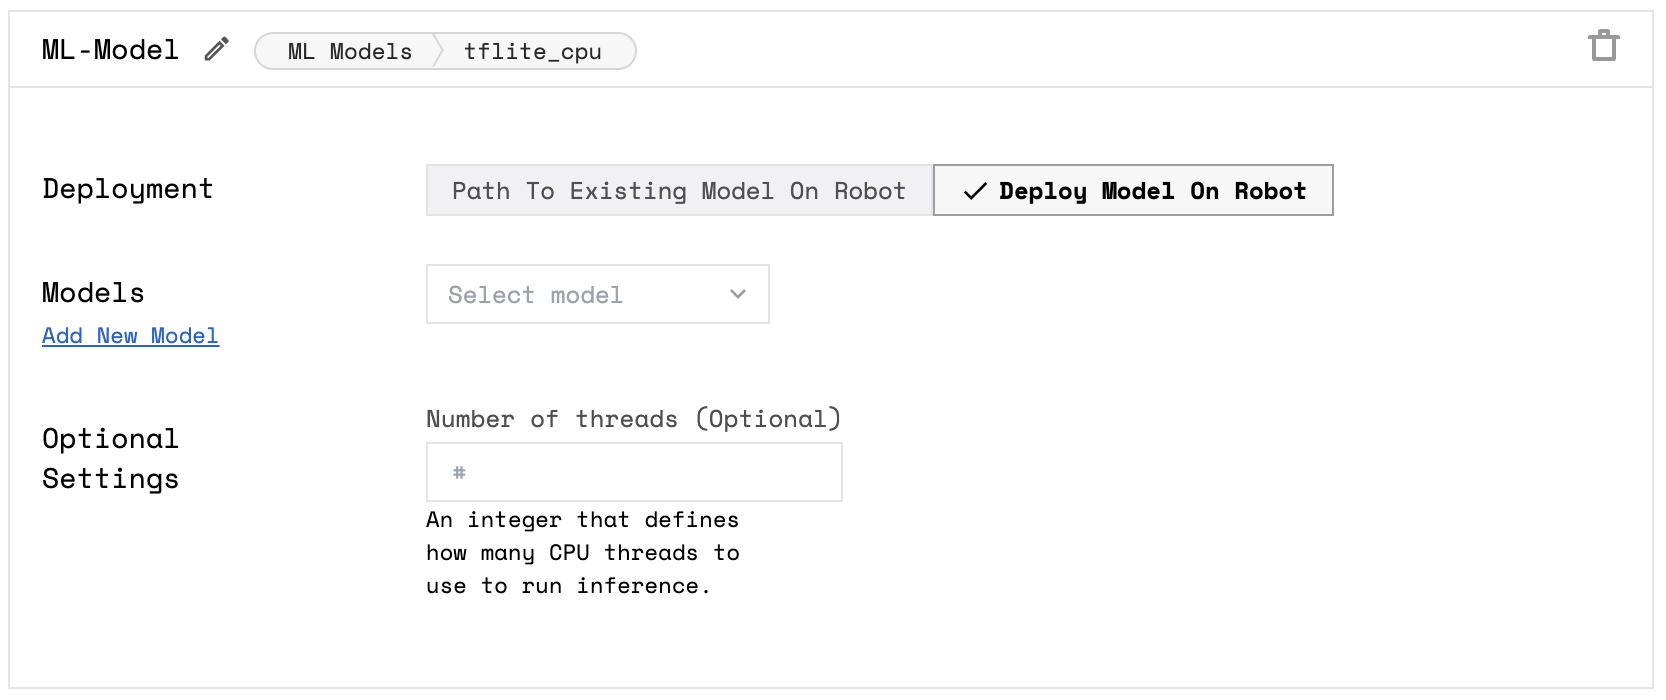
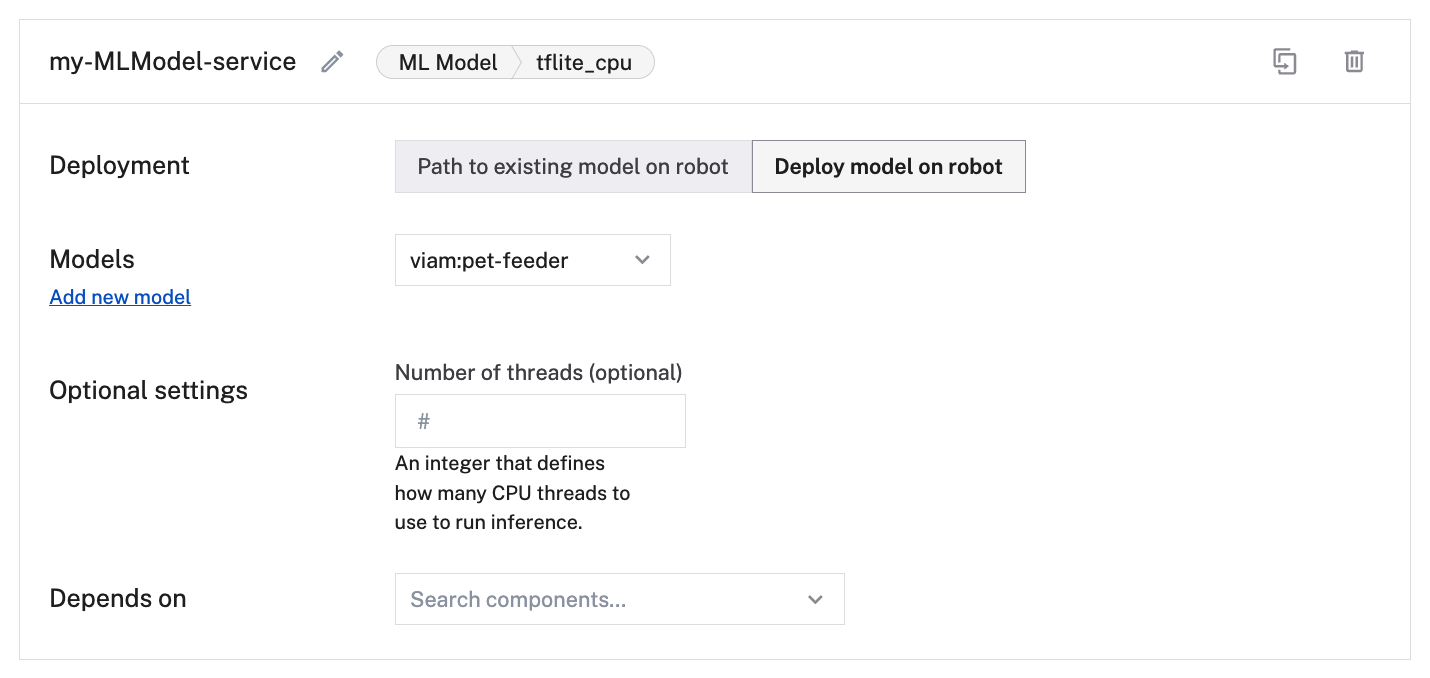
Add models to registry flow

diff --git a/docs/ml/upload-model.md b/docs/ml/upload-model.md
@@ -8,46 +8,81 @@ aliases:
   - /manage/data/upload-model/
   - /manage/ml/upload-model/
 description: "Upload a Machine Learning model to Viam to use it with the ML Model service."
-# SME: Aaron Casas
+# SME: Steven B.
 ---
 
-On the [**DATA** tab](https://app.viam.com/data/view) in the Viam app, navigate to the **Models** subtab.
+## Upload an existing model to the registry
 
-![Add new model](/ml/add-new-model.png)
+Trained ML models are available in the [Viam registry](https://app.viam.com/registry) for public access.
+To add a model that you've trained to the [Viam registry](https://app.viam.com/registry) so that other users can deploy it onto their robots:
 
-To add a new model:
+1. On the [**DATA** tab](https://app.viam.com/data/view) in the Viam app, navigate to the **MODELS** subtab. 
+A list of all of your ML models is displayed.
+2. Open the menu on the right side of an ML model's row.
 
-1. Specify a **Name** for the model.
-2. Add a `.tflite` model file.
-3. Add a `.txt` label file.
-4. Click **CREATE MODEL**.
+{{<imgproc src="/ml/model-list.png" resize="1000x" alt="List of models displayed on MODELS subtab of DATA tab.">}}
 
-The model is now added and becomes visible in the **Models** section of the page.
+3. Then, click **Make public in Registry**.
 
-![The trained model](/ml/stars-model.png)
+{{<imgproc src="/ml/publish-model.png" resize="600x" alt="Publish model to registry action card.">}}
 
-### Upload a new version of a model
+4. Add a short description.
+This will help other users to understand how to use your model.
+5. Then, click **Publish model**.
+Your model should be publicly visible in the [Viam registry](https://app.viam.com/registry).
 
-If you [deploy a model](/ml/) to a machine, Viam automatically assumes that this is the `latest` version of the model and that you would always like to deploy the `latest` version of the model to the machine.
-If you upload a new version of that model, Viam will automatically deploy the new version to the machine and replace the old version.
+## Upload a new model or new version
 
-If you do not want Viam to automatically deploy the `latest` version of the model, you can change the `packages` configuration in the [Raw JSON machine configuration](/build/configure/#the-config-tab).
+On the [**DATA** tab](https://app.viam.com/data/view) in the Viam app, navigate to the **MODELS** subtab.
+Click **Upload model**.
 
-You can get the version number from a specific model version by clicking on **COPY** on the model on the model page.
-The model package config looks like this:
+{{<imgproc src="/ml/add-new-model.png" resize="400x" alt="Upload model menu on the DATA tab of the Viam app.">}}
 
-```json
-{
-  "package": "<model_id>/allblack",
-  "version": "YYYYMMDDHHMMSS",
-  "name": "<model_name>"
-}
-```
+Select if you want to upload a **New model** or a **New version** of a previously published model.
 
-## Next Steps
+{{< tabs >}}
+{{% tab name="New model" %}}
+
+Select **Public** to upload the model publicly to the [Viam registry](https://app.viam.com/registry).
+This makes the model usable by any external organization.
+See [ML models in the registry](/registry/#ml-models) for more information.
+
+Select **Private** to only publish the model for internal use within this {{< glossary_tooltip term_id="organization" text="organization" >}}.
+Select **Next steps** to continue.
+
+{{<imgproc src="/ml/upload-model.png" resize="600x" alt="Upload model menu on the DATA tab of the Viam app.">}}
+
+1. Specify a name for the model.
+2. Specify the **Model type**.
+3. Add a `.tflite` model file.
+4. Add a `.txt` label file.
+5. Add a short description.
+This will help other users to understand how to use your model.
+
+Select **Upload model**.
+The model should now be visible on the **MODELS** subtab of the **DATA** tab in the [Viam app](https://app.viam.com) and available to [deploy on your machine](/ml/deploy/).
+Also, if you selected **Public**, it should be publicly visible in the [Viam registry](https://app.viam.com/registry).
+
+{{% /tab %}}
+{{% tab name="New version" %}}
+
+{{<imgproc src="/ml/select-existing-model.png" resize="400x" alt="Select from your existing models.">}}
+
+1. Select the model you would like to update from your existing models.
+2. Select **Next steps** to continue.
+3. Add an updated `.tflite` model file.
+4. Add an updated `.txt` label file.
+5. Click **Upload model**.
+
+Your model is now replaced with the updated version.
+
+{{% /tab %}}
+{{< /tabs >}}
+
+## Next steps
 
 {{< cards >}}
-{{% manualcard link="/ml/" %}}
+{{% manualcard link="/ml/deploy/" %}}
 
 <h4>Deploy your model</h4>
 

diff --git a/docs/registry/_index.md b/docs/registry/_index.md
@@ -1,5 +1,5 @@
 ---
-title: "Extend Viam with Modules from the Viam Registry"
+title: "Extend Viam with Models from the Viam Registry"
 linkTitle: "Registry"
 weight: 420
 type: "docs"
@@ -12,7 +12,7 @@ tags:
     "components",
     "services",
   ]
-description: "Support additional hardware components or services by adding them from the Viam Registry or by creating new modular resources."
+description: "Add additional models of components and services or ML Models from the Viam Registry, or extend Viam by creating new modular resources."
 image: "/services/icons/modular-registry.svg"
 imageAlt: "Integrate other capabilities."
 no_list: true
@@ -27,18 +27,33 @@ aliases:
 menuindent: true
 ---
 
+The [Viam registry](https://app.viam.com/registry) is the central place where you can browse [ML models](/ml) to deploy with machine applications like [computer vision](/ml/vision/), or {{< glossary_tooltip term_id="modular-resource" text="modular resources" >}} that add capabilities to your machine beyond what is built-in to `viam-server`.
+
+### ML models
+
+Viam provides the ability to train, upload, and deploy ML models within the platform.
+See [Machine Learning](/ml/) for more information.
+
+You can use these ML models to make detections or classifications on-machine with an [`mlmodel` vision service](/ml/vision/mlmodel/).
+
+The Viam registry hosts pretrained ML models that users have made public, so that you can save time spent training complicated models and quickly deploy functional classifiers or detectors for your use case onto your robot.
+You can also upload your own model to the registry.
+
+- You can deploy a model to your robot through an [MLModel service like `tflite_cpu`](/ml/deploy/).
+Select **Builder** and **Deploy Model** tabs and follow [these instructions](/ml/deploy/#create-an-ml-model-service) to deploy the model to your robot.
+- To add an ML model to the registry, [upload the model publicly](/ml/upload-model/).
+
+### Modular resources
+
 Viam provides built-in support for a variety of {{< glossary_tooltip term_id="resource" text="resources" >}}:
 
 - Various types of hardware {{< glossary_tooltip term_id="component" text="components" >}}.
 - High-level functionality exposed as {{< glossary_tooltip term_id="service" text="services" >}}.
 
-If the component or service you want to use for your project is not natively supported, you can use _{{< glossary_tooltip term_id="modular-resource" text="modular resources" >}}_ from [the Viam Registry](#the-viam-registry) or [create your own](#create-your-own-modules).
+If the model of component or service you want to use for your project is not built-in to `viam-server` and available for configuration by default, you can use a {{< glossary_tooltip term_id="model" text="model" >}} from a {{< glossary_tooltip term_id="module" text="module" >}}.
 
-## The Viam Registry
+To configure a modular resource on your robot, [add new models that others have created](/registry/configure/#add-a-modular-resource-from-the-viam-registry) from the [Viam registry](https://app.viam.com/registry) or [create your own](#create-your-own-modules).
 
-The [Viam registry](https://app.viam.com/registry) is the central place where you can browse {{< glossary_tooltip term_id="module" text="modules" >}} that add capabilities to your machine beyond what is built-in to `viam-server`.
-
-A module provides one or more {{< glossary_tooltip term_id="modular-resource" text="modular resources" >}}.
 You can search the available modular resources from the Viam Registry here:
 
 <div id="searchbox"></div>
@@ -57,6 +72,9 @@ You can search the available modular resources from the Viam Registry here:
 
 You can see details about each module in the [Viam registry](https://app.viam.com/registry) on its dedicated module page.
 You can integrate modules into any Viam-powered machine.
+
+Be aware that unlike natively supported models, modular resources are not documented on the Viam Documentation.
+Documentation for each modular resource is available on its GitHub page, which is linked from the models' page on [the registry](https://app.viam.com/registry).
 
 ## Use modules
 

diff --git a/docs/ml/deploy.md b/docs/ml/deploy.md
@@ -61,22 +61,30 @@ Enter a name for your service and click **Create**.
 You can choose to configure your service with an existing model on the machine or deploy a model onto your machine:
 
 {{< tabs >}}
-{{% tab name="Existing Model" %}}
-
-To configure your service with an existing model on the machine, select **Path to Existing Model On Robot** for the **Deployment** field.
-
-Then specify the absolute **Model Path** and any **Optional Settings** such as the absolute **Label Path** and the **Number of threads**.
-
-![Create a machine learning models service with an existing model](/services/available-models.png)
-
-{{% /tab %}}
 {{% tab name="Deploy Model" %}}
 
-To configure your service and deploy a model onto your machine, select **Deploy Model On Robot** for the **Deployment** field.
+1. To configure your service and deploy a model onto your machine, select **Deploy Model On Robot** for the **Deployment** field.
 
-Then select the **Models** and any **Optional Settings** such as the **Number of threads**.
+2. Click on **Models** to open a drop-down with all of the ML models available to you privately, as well as all of the ML models available in [the registry](https://app.viam.com), which are shared by users.
+You can select from any of these models to deploy on your robot.
 
-![Create a machine learning models service with a model to be deployed](/services/deploy-model.png)
+{{<imgproc src="/services/deploy-model-menu.png" resize="700x" alt="Models drop-down menu with models from the registry.">}}
+
+{{% alert title="Tip" color="tip" %}}
+To see more details about a model, open its page in [the registry](https://app.viam.com).
+{{% /alert %}}
+
+{{<imgproc src="/services/deploy-model.png" resize="700x" alt="Create a machine learning models service with a model to be deployed">}}
+
+3. Also, optionally select the **Number of threads**.
+
+{{% /tab %}}
+{{% tab name="Existing Model" %}}
+
+1. To configure your service with an existing model on the machine, select **Path to Existing Model On Robot** for the **Deployment** field.
+2. Then specify the absolute **Model Path** and any **Optional Settings** such as the absolute **Label Path** and the **Number of threads**.
+
+![Create a machine learning models service with an existing model](/services/available-models.png)
 
 {{% /tab %}}
 {{< /tabs >}}

diff --git a/docs/ml/edit.md b/docs/ml/edit.md
@@ -1,0 +1,25 @@
+---
+title: "Edit an ML Model in the Registry"
+linkTitle: "Edit Model"
+weight: 60
+type: "docs"
+tags: ["data management", "ml", "model training", "registry"]
+description: "Edit a machine learning model previously published to the registry."
+modulescript: true
+icon: "/services/icons/ml.svg"
+# SME: Steven B. 
+---
+
+To edit a model you've previously published to [the registry](https://app.viam.com/registry), navigate to its page by clicking on its name.
+The details of the model will be displayed like the following:
+
+{{<imgproc src="/ml/model-details.png" resize="800x" alt="ML model details card.">}}
+
+Click on the ***...*** in the upper-right corner to open the menu.
+Click **Delete** to delete the model.
+Click **Edit details** to edit the details of the model:
+
+{{<imgproc src="/ml/edit-model-details.png" resize="800x" alt="ML model details card editing menu.">}}
+
+Here, you can edit the **Description** of the model.
+Click **Update** to publish your changes.

diff --git a/docs/registry/upload/_index.md b/docs/registry/upload/_index.md
@@ -1,6 +1,6 @@
 ---
 title: "Upload your own modules to the Viam registry"
-linkTitle: "Upload"
+linkTitle: "Upload your module"
 weight: 20
 type: "docs"
 tags:

diff --git a/docs/registry/create/_index.md b/docs/registry/create/_index.md
@@ -1,6 +1,6 @@
 ---
 title: "Create a new module"
-linkTitle: "Create"
+linkTitle: "Create a module"
 weight: 20
 type: "docs"
 tags:
